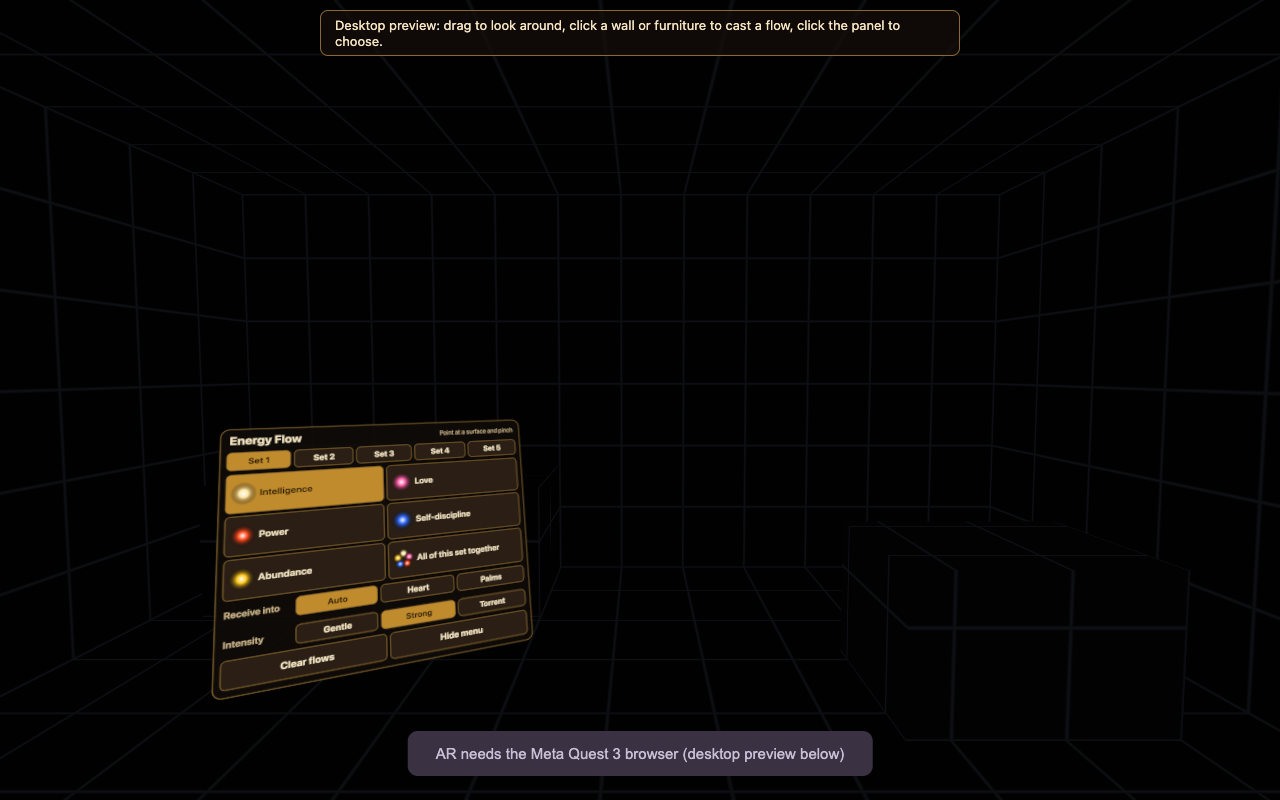
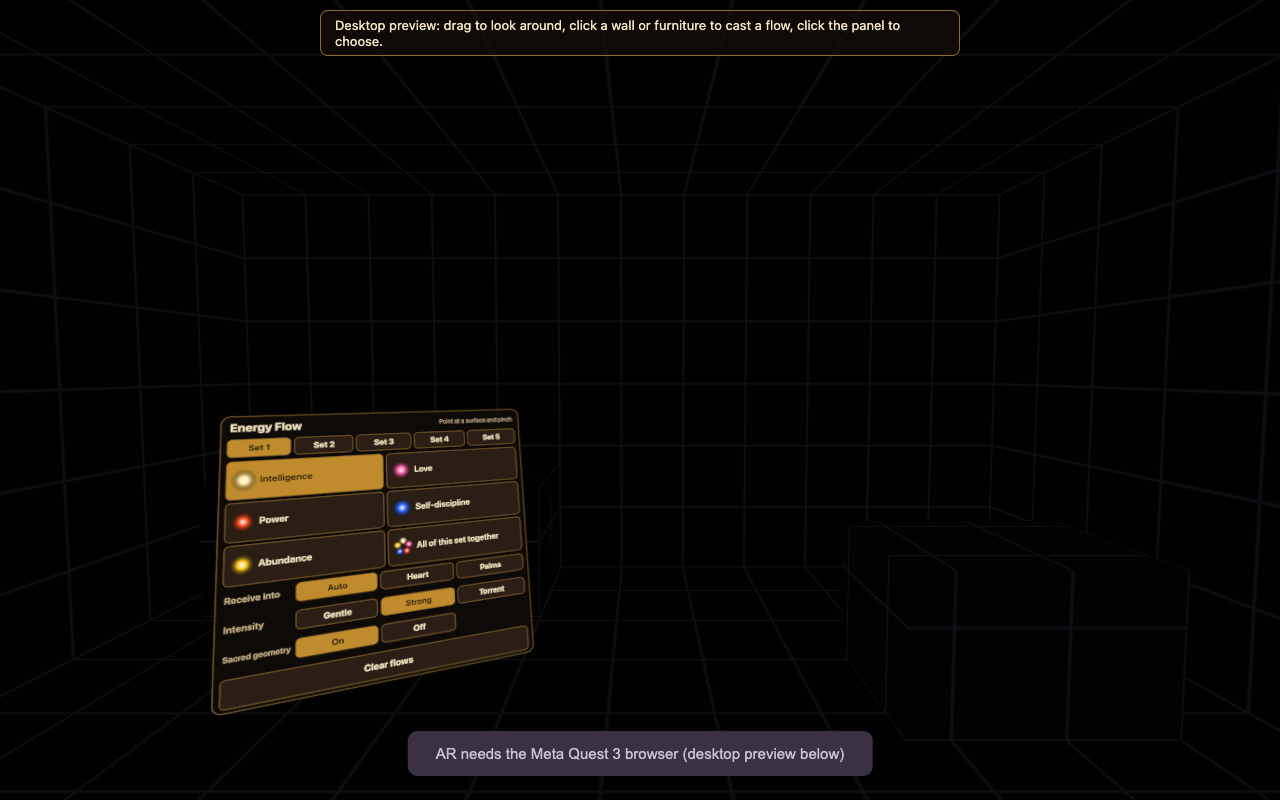
Sacred geometry in the quality colour, with a menu switch
- Sri Yantra etched into the source vortex, fading in with the spin-up and
  turning anticlockwise as seen by the person.
- Hexagram/Seed of Life rings travel down the torrent, spaced by the golden
  ratio and spinning with it.
- Golden-spiral vortex arms; particles seeded at golden-angle steps.
- Anahata mandala at the heart impact (faint near the eyes), a small Sri
  Yantra on each receiving palm, Metatron's Cube expanding with the
  crescendo shockwave (turning with the body swirl).
- All drawn procedurally into canvas textures once at startup.
- Menu row: Sacred geometry On/Off (default On), remembered.

Changed region(s): [[0.1562, 0.5, 0.4375, 0.9062]]

diff --git a/main.js b/main.js
@@ -35,7 +35,7 @@ const INTENSITIES = [
 ];
 const MAX_FLOWS = 3; // guess: a new flow beyond this replaces the oldest
 
-const state = { set: 0, q: 0, intensity: 1, recv: 0 }; // q = -1 means all of the set together; recv: 0 Auto, 1 Heart, 2 Palms
+const state = { set: 0, q: 0, intensity: 1, recv: 0, sacred: true }; // q = -1 means all of the set together; recv: 0 Auto, 1 Heart, 2 Palms
 const RECEIVE = ['Auto', 'Heart', 'Palms'];
 try {
   const s = JSON.parse(localStorage.getItem('energy-flow') || '{}');
@@ -43,6 +43,7 @@ try {
   if (s.q >= -1 && s.q < QUALITY_SETS[state.set].length) state.q = s.q;
   if (s.intensity >= 0 && s.intensity < INTENSITIES.length) state.intensity = s.intensity;
   if (s.recv >= 0 && s.recv < RECEIVE.length) state.recv = s.recv;
+  if (typeof s.sacred === 'boolean') state.sacred = s.sacred;
 } catch (e) { /* only a convenience */ }
 const save = () => { try { localStorage.setItem('energy-flow', JSON.stringify(state)); } catch (e) { /* only a convenience */ } };
 const selectedQualities = () => (state.q < 0 ? QUALITY_SETS[state.set] : [QUALITY_SETS[state.set][state.q]]);
@@ -182,7 +183,7 @@ const streakGeos = (() => {
     const core = k < 0.28, mid = k >= 0.28 && k < 0.38;
     const rf = core ? Math.random() * 0.3 : mid ? 0.3 + Math.random() * 0.4 : 0.7 + Math.random() * 0.4;
     const spark = !core && Math.random() < 0.05;
-    aA.set([Math.random(), rf, Math.random() * TAU, (core ? 2.4 : 1.8) * (0.8 + 0.4 * Math.random())], i * 4);
+    aA.set([Math.random(), rf, (i * 2.39996323) % TAU, /* golden-angle start angles (phyllotaxis) */ (core ? 2.4 : 1.8) * (0.8 + 0.4 * Math.random())], i * 4);
     aB.set([Math.random(),
       core ? 0.011 + 0.007 * Math.random() : spark ? 0.004 : 0.005 + 0.005 * Math.random(),
       Math.random(),
@@ -337,7 +338,7 @@ function diskMat(u) {
       varying vec2 vXY;
       float pat(float th, float r, float ph){
         float a = th - ph;
-        float arms = pow(0.5 + 0.5 * cos(3. * a + 5. * log(r + 0.02)), 2.5);
+        float arms = pow(0.5 + 0.5 * cos(3. * a + 9.79 * log(r + 0.02)), 2.5); // three golden spirals (r grows by phi each quarter turn)
         float n = fbmP(vec2(a / TAU * 8., log(r + 0.02) * 3.), 8.);
         return arms * (0.35 + 1.2 * n) + 0.3 * n;
       }
@@ -421,6 +422,217 @@ function hazeMat(u) {
   });
 }
 
+// ---------- sacred geometry: luminous linework drawn once into canvas textures, tinted in the quality colour ----------
+const PHI = (1 + Math.sqrt(5)) / 2;
+const GOLDEN_ANGLE = Math.PI * (3 - Math.sqrt(5)); // 137.5°
+const sacredU = { uSacred: { value: state.sacred ? 1 : 0 } }; // fades the geometry in and out with the menu switch
+function lineTex(size, drawFn) {
+  const c = document.createElement('canvas'); c.width = c.height = size;
+  const x = c.getContext('2d');
+  x.translate(size / 2, size / 2); x.scale(size / 2, size / 2); // unit square: -1..1
+  x.strokeStyle = '#fff'; x.fillStyle = '#fff'; x.lineJoin = 'round'; x.lineCap = 'round';
+  drawFn(x, 2 / size);
+  const t = new THREE.CanvasTexture(c);
+  t.anisotropy = 4;
+  return t;
+}
+const circle = (x, r, cx = 0, cy = 0) => { x.beginPath(); x.arc(cx, cy, r, 0, TAU); x.stroke(); };
+const poly = (x, pts) => { x.beginPath(); pts.forEach(([a, b], i) => (i ? x.lineTo(a, b) : x.moveTo(a, b))); x.closePath(); x.stroke(); };
+const petals = (x, n, r0, r1, rot = 0) => {
+  const d = Math.PI / n;
+  for (let i = 0; i < n; i++) {
+    const a = rot + i * TAU / n;
+    x.beginPath();
+    x.moveTo(Math.cos(a - d) * r0, Math.sin(a - d) * r0);
+    x.quadraticCurveTo(Math.cos(a - d * 0.55) * r1 * 1.02, Math.sin(a - d * 0.55) * r1 * 1.02, Math.cos(a) * r1, Math.sin(a) * r1);
+    x.quadraticCurveTo(Math.cos(a + d * 0.55) * r1 * 1.02, Math.sin(a + d * 0.55) * r1 * 1.02, Math.cos(a + d) * r0, Math.sin(a + d) * r0);
+    x.stroke();
+  }
+};
+const hexagram = (x, r, rot = -Math.PI / 2) => {
+  for (const o of [0, Math.PI]) poly(x, [0, 1, 2].map(k => [Math.cos(rot + o + k * TAU / 3) * r, Math.sin(rot + o + k * TAU / 3) * r]));
+};
+// Sri Yantra: nine interlocking triangles (four pointing up, five down), bindu, 8- and 16-petal lotuses,
+// three circles and the bhupura square with its four gates.
+const sriYantraTex = lineTex(1024, (x, px) => {
+  const S = 1 / 2.05;
+  x.save(); x.scale(S, S);
+  x.lineWidth = px * 5 / S;
+  const tri = (yb, ya) => { // base at height yb, apex at ya (canvas y is down, so flip)
+    const hw = Math.min(Math.sqrt(Math.max(0, 1 - yb * yb)), Math.abs(ya - yb) * 0.62);
+    poly(x, [[-hw, -yb], [hw, -yb], [0, -ya]]);
+  };
+  [[0.68, -1.0], [0.45, -0.82], [0.29, -0.58], [0.10, -0.40], [-0.06, -0.20]].forEach(([b, a]) => tri(b, a)); // Shakti, pointing down
+  [[-0.62, 1.0], [-0.42, 0.76], [-0.24, 0.52], [-0.03, 0.30]].forEach(([b, a]) => tri(b, a)); // Shiva, pointing up
+  x.beginPath(); x.arc(0, 0.05, 0.035, 0, TAU); x.fill(); // bindu
+  circle(x, 1.04);
+  petals(x, 8, 1.04, 1.34, -Math.PI / 2);
+  circle(x, 1.36);
+  petals(x, 16, 1.36, 1.64, -Math.PI / 2);
+  x.lineWidth = px * 3.5 / S;
+  [1.67, 1.72, 1.77].forEach(r => circle(x, r));
+  x.lineWidth = px * 2.2 / S;
+  for (const s of [1.88, 1.95, 2.02]) { // bhupura with a gate in the middle of each side
+    const g = 0.32, t = 0.16;
+    x.beginPath();
+    for (let k = 0; k < 4; k++) {
+      x.save(); x.rotate(k * Math.PI / 2);
+      x.moveTo(-s, -s); x.lineTo(-g, -s); x.lineTo(-g, -s - t); x.moveTo(g, -s - t); x.lineTo(g, -s); x.lineTo(s, -s);
+      x.restore();
+    }
+    x.stroke();
+  }
+  x.restore();
+});
+// A ring for the torrent's cross-section: hexagram inside the Seed of Life, in a double circle.
+const ringTex = lineTex(512, (x, px) => {
+  x.lineWidth = px * 3;
+  circle(x, 0.95); circle(x, 0.9);
+  hexagram(x, 0.86);
+  const r = 0.3;
+  circle(x, r);
+  for (let k = 0; k < 6; k++) circle(x, r, Math.cos(k * TAU / 6) * r, Math.sin(k * TAU / 6) * r);
+});
+// Anahata, the heart chakra: a 12-petal lotus around a hexagram.
+const anahataTex = lineTex(512, (x, px) => {
+  x.lineWidth = px * 3.2;
+  petals(x, 12, 0.55, 0.95, -Math.PI / 2);
+  circle(x, 0.55); circle(x, 0.5);
+  hexagram(x, 0.47);
+  circle(x, 0.14);
+});
+// Metatron's Cube over the Fruit of Life: 13 circles, every centre joined to every other.
+const metatronTex = lineTex(1024, (x, px) => {
+  x.lineWidth = px * 3;
+  const r = 0.16, pts = [[0, 0]];
+  for (let k = 0; k < 6; k++) { const a = -Math.PI / 2 + k * TAU / 6; pts.push([Math.cos(a) * 2 * r, Math.sin(a) * 2 * r], [Math.cos(a) * 4 * r, Math.sin(a) * 4 * r]); }
+  pts.forEach(([a, b]) => circle(x, r, a, b));
+  x.beginPath();
+  for (let i = 0; i < pts.length; i++) for (let j = i + 1; j < pts.length; j++) { x.moveTo(...pts[i]); x.lineTo(...pts[j]); }
+  x.stroke();
+  circle(x, 4 * r + r);
+});
+
+// The glow of a line texture: the sharp line with a soft halo from a blurrier mip level, in the palette colour.
+const SACRED_FRAG = /* glsl */`
+  uniform sampler2D uTex; uniform vec3 uColors[5]; uniform float uNC;
+  varying vec2 vUv; varying float vA;
+  void main(){
+    float line = texture2D(uTex, vUv).a;
+    float halo = texture2D(uTex, vUv, 3.5).a;
+    vec2 d = vUv - 0.5;
+    float k = fract(length(d) * 2.2 + atan(d.y, d.x) / 6.2831853);
+    int i = int(floor(k * uNC)); vec3 base = uColors[clamp(i, 0, 4)];
+    vec3 col = mix(base * 1.5, vec3(1.), 0.35 * line);
+    float a = (line * 0.9 + halo * 1.3) * vA;
+    gl_FragColor = vec4(col * a, a * 0.3);
+  }`;
+
+// Per flow: the Sri Yantra etched into the source vortex, and golden-ratio rings travelling down the torrent.
+function yantraMat(u) {
+  return new THREE.ShaderMaterial({
+    uniforms: { ...u, uTex: { value: sriYantraTex }, uSacred: sacredU.uSacred }, ...GLOW_BLEND, side: THREE.DoubleSide,
+    vertexShader: FLOW + /* glsl */`
+      uniform float uSacred; varying vec2 vUv; varying float vA;
+      void main(){
+        float ang = uAge * 0.12; // turns slowly anticlockwise as you see it
+        vec2 q = vec2(position.x * cos(ang) - position.y * sin(ang), position.x * sin(ang) + position.y * cos(ang));
+        vec3 P = uS + uN * 0.01 + (uE1 * q.x + uE2 * q.y) * uRdisk * 0.78;
+        vUv = position.xy * 0.5 + 0.5;
+        vA = uSpin * uSpin * uFade * uSacred * uGain * 0.55;
+        gl_Position = projectionMatrix * viewMatrix * vec4(P, 1.);
+      }`,
+    fragmentShader: SACRED_FRAG,
+  });
+}
+const ringGeo = (() => {
+  const g = new THREE.InstancedBufferGeometry();
+  g.setIndex(planeGeo.index); g.setAttribute('position', planeGeo.attributes.position);
+  const k = new Float32Array(5);
+  for (let i = 0; i < 5; i++) k[i] = (i / PHI) % 1; // spaced by the golden ratio
+  g.setAttribute('aK', new THREE.InstancedBufferAttribute(k, 1));
+  g.instanceCount = 5;
+  return g;
+})();
+function ringMat(u) {
+  return new THREE.ShaderMaterial({
+    uniforms: { ...u, uTex: { value: ringTex }, uSacred: sacredU.uSacred }, ...GLOW_BLEND, side: THREE.DoubleSide,
+    vertexShader: FLOW + /* glsl */`
+      attribute float aK; uniform float uSacred; varying vec2 vUv; varying float vA;
+      void main(){
+        float w = fract(aK + uAge * 0.1 * uSpeed);
+        float R = funnelR(w) * 1.15 + 0.03;
+        vec3 T = bezT(w), B2 = normalize(cross(T, uPN));
+        float ang = uAge * 0.8 + aK * 6.2831853; // anticlockwise as you see it, like the torrent
+        vec2 q = vec2(position.x * cos(ang) - position.y * sin(ang), position.x * sin(ang) + position.y * cos(ang));
+        vec3 P = bez(w) + (uPN * q.x + B2 * q.y) * R;
+        vUv = position.xy * 0.5 + 0.5;
+        float near = smoothstep(0.5, 1.4, distance(bez(w), cameraPosition));
+        vA = (1. - smoothstep(uReveal - 0.05, uReveal, w)) * smoothstep(0.04, 0.14, w) * (1. - smoothstep(0.62, 0.8, w))
+           * near * uFade * uSacred * uGain * 0.55;
+        gl_Position = projectionMatrix * viewMatrix * vec4(P, 1.);
+      }`,
+    fragmentShader: SACRED_FRAG,
+  });
+}
+// Around you: Anahata at the heart, a small Sri Yantra on each receiving palm, Metatron's Cube with the shockwave.
+function plainSacredMat(tex) {
+  return new THREE.ShaderMaterial({
+    uniforms: { uTex: { value: tex }, uColors: { value: palette() }, uNC: { value: 5 }, uAlpha: { value: 0 }, uBill: { value: 0 }, uSize: { value: 1 }, uRot: { value: 0 } },
+    ...GLOW_BLEND, side: THREE.DoubleSide,
+    vertexShader: /* glsl */`
+      uniform float uAlpha, uBill, uSize, uRot; varying vec2 vUv; varying float vA;
+      void main(){
+        vec2 q = vec2(position.x * cos(uRot) - position.y * sin(uRot), position.x * sin(uRot) + position.y * cos(uRot)) * uSize;
+        vUv = position.xy * 0.5 + 0.5; vA = uAlpha;
+        if (uBill > 0.5) { vec4 mv = viewMatrix * vec4(modelMatrix[3].xyz, 1.); mv.xy += q; gl_Position = projectionMatrix * mv; }
+        else gl_Position = projectionMatrix * viewMatrix * modelMatrix * vec4(q, 0., 1.);
+      }`,
+    fragmentShader: SACRED_FRAG,
+  });
+}
+const sacredAround = (() => {
+  const mk = (tex) => { const m = new THREE.Mesh(planeGeo, plainSacredMat(tex)); m.frustumCulled = false; m.visible = false; scene.add(m); return m; };
+  const anahata = mk(anahataTex); anahata.material.uniforms.uBill.value = 1;
+  const palms = [mk(sriYantraTex), mk(sriYantraTex)];
+  const metatron = mk(metatronTex);
+  const z = new THREE.Vector3(0, 0, 1);
+  return {
+    update(dt, E, t, heartOn, hands, cols, chestPos, bodyPos) {
+      const S = sacredU.uSacred.value;
+      [anahata, ...palms, metatron].forEach(m => m.material.uniforms.uColors.value.forEach((c, i) => c.copy(cols[i])));
+      // Anahata blooms at the heart impact, facing you; kept faint and small this close to your eyes
+      const near = smooth(0.3, 0.9, chestPos.distanceTo(PHANTOM_MODE && params.get('cam') !== 'src' ? camera.position : head));
+      const au = anahata.material.uniforms;
+      au.uAlpha.value = E * heartOn * S * 0.8 * (0.3 + 0.7 * near);
+      au.uSize.value = 0.2 * (0.5 + 0.5 * smooth(0, 0.9, t)) * (0.5 + 0.5 * near);
+      au.uRot.value = -clockNow.t * 0.15; // follows the body swirl's turn
+      anahata.position.copy(chestPos); anahata.visible = au.uAlpha.value > 0.003;
+      // palms
+      palms.forEach((m, i) => {
+        const h = hands.find(hh => hh.idx === i);
+        const mu = m.material.uniforms;
+        mu.uAlpha.value = h && h.receiving ? E * S * 0.7 : 0;
+        m.visible = mu.uAlpha.value > 0.003;
+        if (!m.visible) return;
+        m.position.copy(h.palm).addScaledVector(h.normal, 0.012);
+        m.quaternion.setFromUnitVectors(z, h.normal);
+        mu.uSize.value = 0.06; mu.uRot.value = -clockNow.t * 0.6; // anticlockwise as you see the stream arrive
+      });
+      // Metatron's Cube expands with the crescendo's shockwave, flat at chest height, turning with the body swirl
+      const k = Math.min(1, t / 1.8), mu = metatron.material.uniforms;
+      mu.uAlpha.value = t < 1.8 ? E * S * Math.pow(1 - k, 1.2) * 0.6 : 0;
+      metatron.visible = mu.uAlpha.value > 0.003;
+      if (metatron.visible) {
+        metatron.position.set(bodyPos.x, chestPos.y - 0.15, bodyPos.z);
+        metatron.rotation.set(-Math.PI / 2, 0, 0);
+        mu.uSize.value = (1 - Math.pow(1 - k, 2)) * 4.5 / 0.8 + 0.1; // its outer circle rides the ring
+        mu.uRot.value = -clockNow.t * 0.3; // clockwise seen from above once laid flat, like the body swirl
+      }
+    },
+  };
+})();
+
 // ---------- one energy flow ----------
 const clockNow = { t: 0 };
 class Flow {
@@ -460,10 +672,12 @@ class Flow {
       mk(streakGeos[intensity], streakMat(this.u)),
       mk(planeGeo, chestMat(this.u, 'uPA')),
       mk(planeGeo, chestMat(this.u, 'uPB')),
+      mk(planeGeo, yantraMat(this.u)),
+      mk(ringGeo, ringMat(this.u)),
     ];
-    // ?hide=disk,sheath,haze,core,streaks,chest turns layers off, for tuning
+    // ?hide=disk,sheath,haze,core,streaks,chest,yantra,rings turns layers off, for tuning
     const hide = (params.get('hide') || '').split(',');
-    ['disk', 'sheath', 'haze', 'core', 'streaks', 'chest', 'chest'].forEach((k, i) => { if (hide.includes(k)) this.meshes[i].visible = false; });
+    ['disk', 'sheath', 'haze', 'core', 'streaks', 'chest', 'chest', 'yantra', 'rings'].forEach((k, i) => { if (hide.includes(k)) this.meshes[i].visible = false; });
   }
   bez(w, out) {
     const { uS, uC, uD } = this.u, a = 1 - w;
@@ -475,6 +689,7 @@ class Flow {
     let recv = [];
     if (state.recv !== 1) recv = handsNow.filter(h => state.recv === 2 || (h.open && _tv.subVectors(S, h.palm).normalize().dot(h.normal) > 0.5));
     recv.forEach(h => { h.receiving = true; });
+    this.recvCount = recv.length;
     const A = recv.length ? recv[0].palm.clone().addScaledVector(recv[0].normal, 0.03) : chest.clone();
     const B = recv.length > 1 ? recv[1].palm.clone().addScaledVector(recv[1].normal, 0.03) : A.clone();
     if (dt === undefined) { u.uPA.value.copy(A); u.uPB.value.copy(B); }
@@ -556,11 +771,11 @@ const roomMeshes = [roomBox, sofa, table];
 
 // ---------- the 3D menu panel ----------
 const panel = (() => {
-  const W = 1024, H = 868;
+  const W = 1024, H = 958;
   const canvas = document.createElement('canvas'); canvas.width = W; canvas.height = H;
   const ctx = canvas.getContext('2d');
   const tex = new THREE.CanvasTexture(canvas); tex.colorSpace = THREE.SRGBColorSpace; tex.anisotropy = 4;
-  const mesh = new THREE.Mesh(new THREE.PlaneGeometry(0.5, 0.424), new THREE.MeshBasicMaterial({ map: tex, transparent: true, toneMapped: false }));
+  const mesh = new THREE.Mesh(new THREE.PlaneGeometry(0.5, 0.468), new THREE.MeshBasicMaterial({ map: tex, transparent: true, toneMapped: false }));
   mesh.renderOrder = 10;
   scene.add(mesh);
 
@@ -627,9 +842,9 @@ const panel = (() => {
     });
     // receive into, and intensity
     const iw = (W - 24 - 230 - 2 * 12) / 3;
-    [['Receive into', 'recv', RECEIVE, state.recv, 586], ['Intensity', 'int', INTENSITIES.map(it => it.label), state.intensity, 676]].forEach(([title, key, labels, cur, y]) => {
+    [['Receive into', 'recv', RECEIVE, state.recv, 586], ['Intensity', 'int', INTENSITIES.map(it => it.label), state.intensity, 676], ['Sacred geometry', 'sac', ['On', 'Off'], state.sacred ? 0 : 1, 766]].forEach(([title, key, labels, cur, y]) => {
       ctx.fillStyle = '#cbb48a'; ctx.font = '600 28px system-ui, sans-serif'; ctx.textAlign = 'left';
-      ctx.fillText(title, 28, y + 30);
+      ctx.font = `600 ${title.length > 12 ? 24 : 28}px system-ui, sans-serif`; ctx.fillText(title, 28, y + 30);
       labels.forEach((label, i) => {
         const x = 230 + i * (iw + 12);
         const fg = button(key + ':' + i, x, y, iw, 60, cur === i);
@@ -638,9 +853,9 @@ const panel = (() => {
       });
     });
     {
-      const fg = button('clear', 24, 754, W - 48, 86, false);
+      const fg = button('clear', 24, 856, W - 48, 86, false);
       ctx.fillStyle = fg; ctx.font = 'bold 30px system-ui, sans-serif'; ctx.textAlign = 'center';
-      ctx.fillText('Clear flows', W / 2, 798);
+      ctx.fillText('Clear flows', W / 2, 900);
     }
     tex.needsUpdate = true;
   }
@@ -658,6 +873,7 @@ const panel = (() => {
     else if (k === 'q') state.q = v === 'all' ? -1 : +v;
     else if (k === 'int') state.intensity = +v;
     else if (k === 'recv') state.recv = +v;
+    else if (k === 'sac') state.sacred = v === '0';
     else if (k === 'clear') clearFlows();
     if (k === 'set' || k === 'q') { const p = palette(); flows.forEach(f => { f.target = p.map(c => c.clone()); }); }
     save(); audio.click(); draw();
@@ -710,8 +926,8 @@ const panel = (() => {
     if (mesh.visible && right && right.indexTip) {
       mesh.updateMatrixWorld();
       const local = mesh.worldToLocal(_p.copy(right.indexTip));
-      const inside = Math.abs(local.x) < 0.25 && Math.abs(local.y) < 0.212;
-      if (inside && Math.abs(local.z) < 0.012 && !poked) { poked = true; press(idAt({ x: local.x / 0.5 + 0.5, y: local.y / 0.424 + 0.5 })); }
+      const inside = Math.abs(local.x) < 0.25 && Math.abs(local.y) < 0.234;
+      if (inside && Math.abs(local.z) < 0.012 && !poked) { poked = true; press(idAt({ x: local.x / 0.5 + 0.5, y: local.y / 0.468 + 0.5 })); }
       if (!inside || local.z > 0.025) poked = false;
     }
   }
@@ -1470,6 +1686,8 @@ const empower = (() => {
       eu.uE.value = E; eu.uT.value = t; eu.uBurst.value = burst; eu.uTime.value = clockNow.t;
       empowerGroup.visible = E > 0.005;
       flare.visible = E > 0.005 && !!flow;
+      const heartOn = flows.some(f => f.arrived && !f.dying && !f.recvCount) ? 1 : 0;
+      sacredAround.update(dt, E, t, heartOn, handsNow, eu.uColors.value, chest, eu.uBody.value);
       if (!empowerGroup.visible) { bolts.begin(); bolts.end(); return; }
       if (flow) {
         const ff = flow.u;
@@ -1566,6 +1784,7 @@ renderer.setAnimationLoop((ts, frame) => {
   panel.setHover(new Set(_hov));
 
   handsNow = readHands();
+  sacredU.uSacred.value += ((state.sacred ? 1 : 0) - sacredU.uSacred.value) * (1 - Math.exp(-dt * 4));
   if (xr || DEMO_MENU) panel.handMenu(dt, handsNow);
   menuHint.update(dt);
   let level = 0;

diff --git a/README.md b/README.md
@@ -27,6 +27,7 @@ Press buttons with your right hand: point the ray at a button and pinch, or poke
 - The qualities of the set, each with its colour, and **All of this set together** (a flow in all the set's colours).
 - **Receive into**: Auto (the default), Heart or Palms. See below.
 - **Intensity**: Gentle, Strong (the default) or Torrent.
+- **Sacred geometry**: On (the default) or Off.
 - **Clear flows**: fades out every flow.
 
 The hand menu needs hand tracking. With controllers only (or in the desktop preview) the menu stays fixed where it first appears. Your choices are saved for next time.
@@ -58,6 +59,25 @@ Quest hand tracking gives the joints of the hand and wrist, but not the forearm 
 
 **One colour for everything:** every layer is tinted in the selected quality's colour. That covers the torrent, vortex, beam, aura, lightning, sparks, hand glow, flare, shockwave and the pointing ray. Cores can go white-hot. "All of this set together" uses the set's colours on every layer. When you choose a different quality, flows that are already running change to the new colour over about a second. Dark colours (for example Restraint) are lifted, and pale ones (for example Divine Justice) get a stronger tint, so they still read clearly. Deep Connection with the Divine stays pure white.
 
+## Sacred geometry
+
+Thin, glowing linework sits alongside the effects, in the quality's colour. It never covers the torrent, and you can turn it off in the menu.
+
+- **At the source:** a Sri Yantra is etched into the vortex on the surface: nine interlocking triangles, the bindu, 8- and 16-petal lotuses, three circles and the bhupura square with its gates. It fades in as the vortex spins up and turns slowly anticlockwise as you see it.
+- **Along the torrent:** five rings, each a hexagram inside the Seed of Life, travel with the flow toward you. They are spaced by the golden ratio and spin anticlockwise with the torrent.
+- **Golden-ratio structure:** the vortex's three spiral arms are golden spirals (the radius grows by phi every quarter turn), and the particles start at golden-angle steps (137.5°, as in phyllotaxis).
+- **At the heart:** when the flow arrives, an Anahata mandala (a 12-petal lotus around a hexagram) blooms at the chest impact, facing you. It is kept faint and small this close to your eyes.
+- **On the palms:** a small Sri Yantra glows on each palm while it receives the flow.
+- **Crescendo:** Metatron's Cube over the Fruit of Life expands with the shockwave ring, turning the same way as the swirl around your body.
+
+Everything is drawn by the app itself when it starts. There are no image files.
+
+![Sacred geometry at the source](screenshots/sacred-source.png)
+
+## Spin direction
+
+The vortex on the surface, the spiral into it, the torrent, the rings and both palm streams all turn **anticlockwise as you look toward the source**. The swirl around your body keeps its own turn (clockwise seen from above), and the geometry around the body follows it. `?demo&cam=src&noroom` puts the preview camera where the energy lands, looking at the source, which is how the spin was checked.
+
 ## Sound
 
 There is a rumble and whoosh that follows how much energy is flowing, a rising tone when you cast, a chime when the energy reaches you, a deep whoosh on arrival and electric crackle with the lightning. Sound starts when you tap Enter AR.
@@ -78,7 +98,8 @@ For screenshots and checks:
 | `&recv=0..2` | Receive into Auto, Heart or Palms |
 | `&set=0..4&q=0..4` (`q=-1` is all together), `&i=0..2` | Quality and intensity for the demo |
 | `&stop=2.4` | Runs in fixed steps to that many seconds after the cast, then freezes (2 s is about when the energy arrives) |
-| `&hide=disk,sheath,haze,core,streaks,chest` | Turns flow layers off, for tuning |
+| `&hide=disk,sheath,haze,core,streaks,chest,yantra,rings` | Turns flow layers off, for tuning |
+| `&cam=src`, `&noroom` | Camera at the target looking at the source, and no stand-in room (used to check the spin) |
 
 Screenshots are in [`screenshots/`](screenshots/).
 
